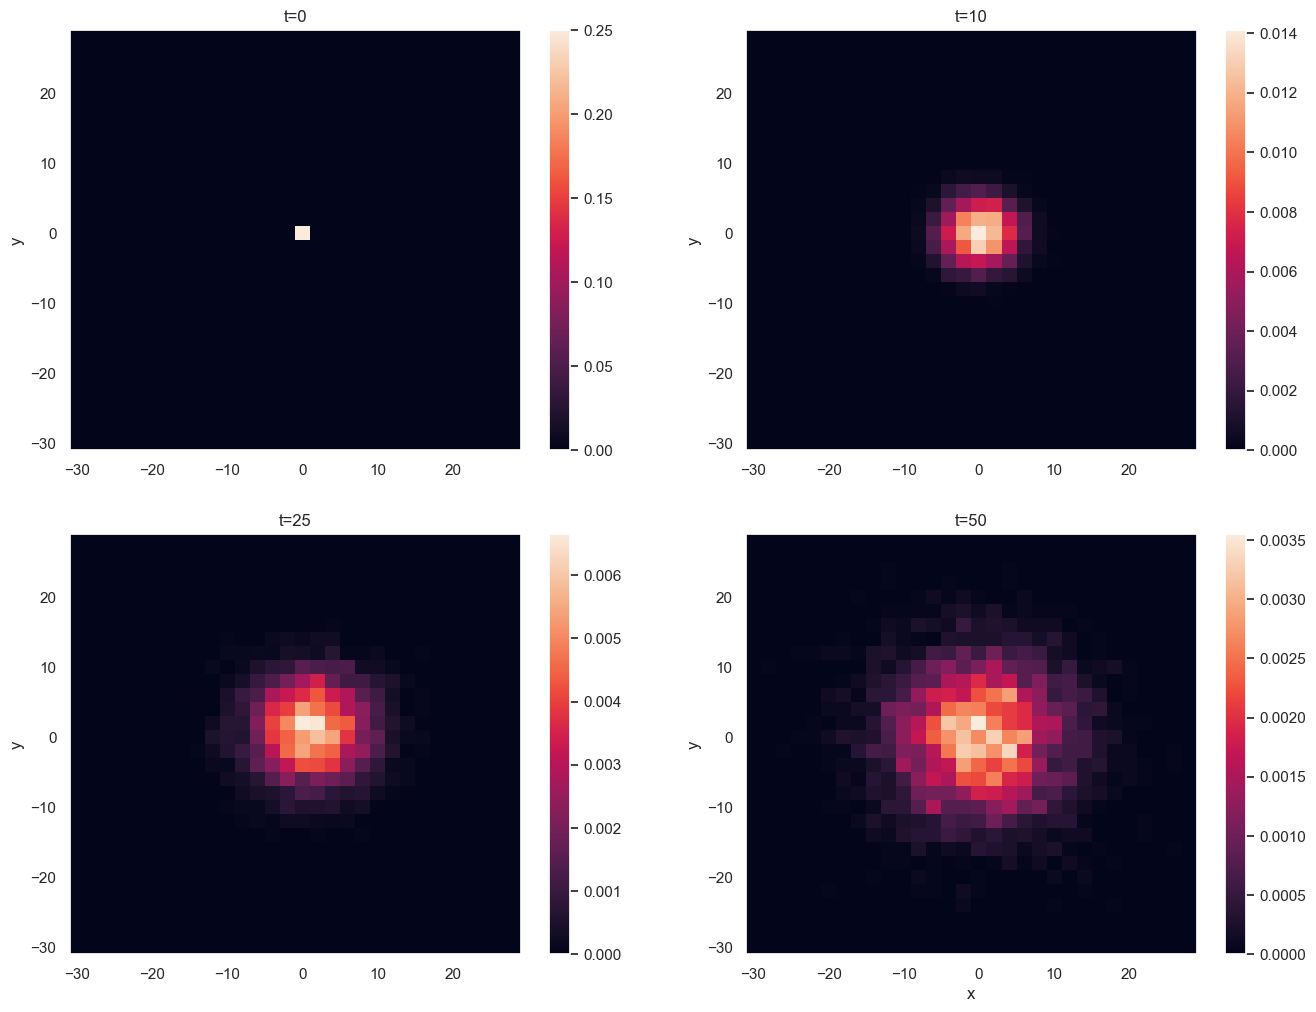
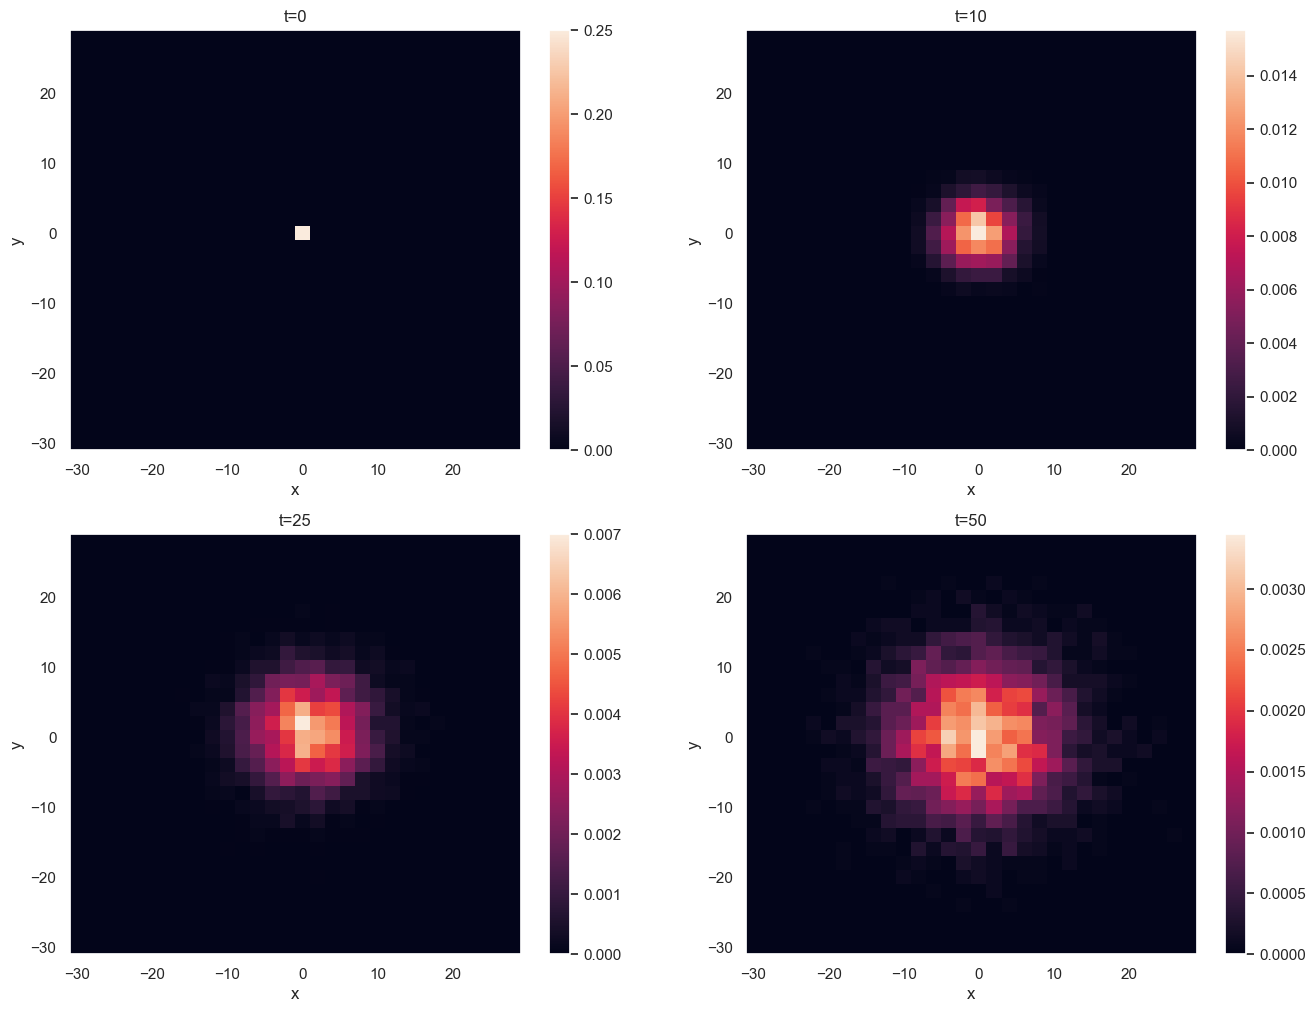
Changed diffusion 2d image

diff --git a/projects/Biophysics-Book/Stochastic-Processes.html b/projects/Biophysics-Book/Stochastic-Processes.html
@@ -222,29 +222,30 @@
     <img src="Diffusion2D.png" alt="2D random walk over time" style="margin:auto; display: block;  width:clamp(300px,60vw, 900px)"/>
     Python code:
     <code style="margin: auto; width: 50%;"><pre>
-    particles_x = np.zeros(5000)
-    particles_y = np.zeros(5000)
-    bins = [-31+2*i for i in range(0,31)]
-    fig, axes = plt.subplots(2,2,figsize=(16,12))
-    axes = axes.flatten()
-    j=0
-    for i in range(51):
-        if (i in [0,10,25,50]):
-            ax = axes[j].hist2d(particles_x,
-            particles_y, bins = bins,
-            density=True)
-            axes[j].set(ylabel='y',
-            title=f't={i}')
-            fig.colorbar(ax[3])
-            j+=1
-        dice_rolls = np.random.rand(5000)
-        movement = np.where(dice_rolls < 0.5,1,-1)
-        particles_x += movement
-        dice_rolls = np.random.rand(5000)
-        movement = np.where(dice_rolls < 0.5,1,-1)
-        particles_y += movement
-    axes[-1].set(xlabel="x")
-    plt.show()</pre>
+np.random.seed(1)
+particles_x = np.zeros(5000)
+particles_y = np.zeros(5000)
+bins = [-31+2*i for i in range(0,31)]
+fig, axes = plt.subplots(2,2,figsize=(16,12))
+axes = axes.flatten()
+j=0
+for i in range(51):
+    if (i in [0,10,25,50]):
+        ax = axes[j].hist2d(particles_x,
+        particles_y, bins = bins,
+        density=True)
+        axes[j].set(ylabel='y',
+        title=f't={i}',
+        xlabel='x')
+        fig.colorbar(ax[3])
+        j+=1
+    dice_rolls = np.random.rand(5000)
+    movement = np.where(dice_rolls < 0.5,1,-1)
+    particles_x += movement
+    dice_rolls = np.random.rand(5000)
+    movement = np.where(dice_rolls < 0.5,1,-1)
+    particles_y += movement
+plt.show()</pre>
     </code>
     <br>
     
@@ -269,6 +270,9 @@
     plt.show()</pre>
                 </code>
                 <br>
+
+                Alternatively, we could think about having the probabilities remain 50% for each direction but add a drift component that gets added at each step. 
+                
     
                 Of course, this is not a realistic model, as particles don't discretely jump, but it becomes a better approximation as the limit as the scale of distance and time go to 0. 
                 This will be more precisely defined later.

diff --git a/projects/Biophysics-Book/Diffusion.html b/projects/Biophysics-Book/Diffusion.html
@@ -109,7 +109,7 @@
 
                 <br><br>
                 
-                The probability density of a particle under drift conditions can be described by a stochastic differential equation (SDE)
+                The probability density of a particle under drift conditions connected to a stochastic differential equation (SDE) that describes its dynamics.
 
                 Since Brownian motion has its used in biology terminology as well, we will switch to W instead of B to describe the random process phenomenon to avoid confusion. 
 
@@ -123,10 +123,15 @@
 
                 $$\frac{\partial}{\partial t}p(x,t)=-\frac{\partial}{\partial x}[\mu(x,t)p(x,t)]+\frac{\partial^2}{\partial x^2}[D(x,t)p(x,t)]$$
 
-                where \(D(X_t,t)=\frac{1}{2}\sigma^2\)
+                where \(D(X_t,t)=\frac{1}{2}\sigma^2\). 
+
+                In stochastic calculus, this is referred to as the Kolmogorov Forward Equation. There is a corresponding backward equation which deals with the likelihood of ending up at a particular state. 
+
+                Again, note that if there is no drift, this simplifies to the above Diffusion Equation.
+
 
                 This becomes easier when D(x,t) is a constant, which can often be an appropriate assumption. 
-
+                <br><br>
                 If there is no drift and D is constant, then we get the dynamics
                 $$dX_t=\sqrt{2D}dW_t$$
                 
@@ -135,9 +140,7 @@
 
                 $$\frac{\partial}{\partial t}p(x,t)=D\frac{\partial^2}{\partial x^2}p(x,t)$$
                 which is Fick's second law. 
-                
-                <br><br>
-                Again, note that if there is no drift, this simplifies to the above Diffusion Equation.
+    
 
                 <h3>Exploring the Diffusivity</h3>
 
